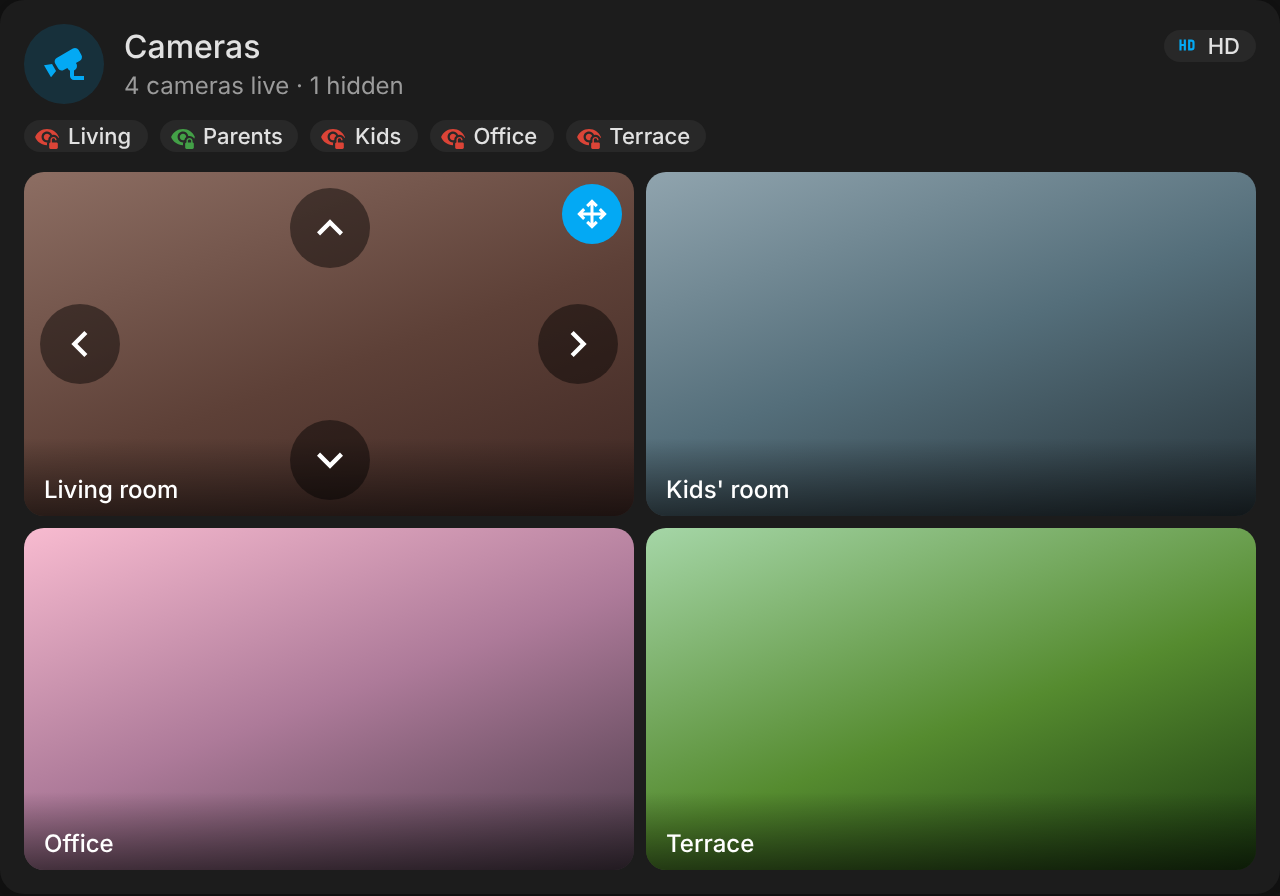
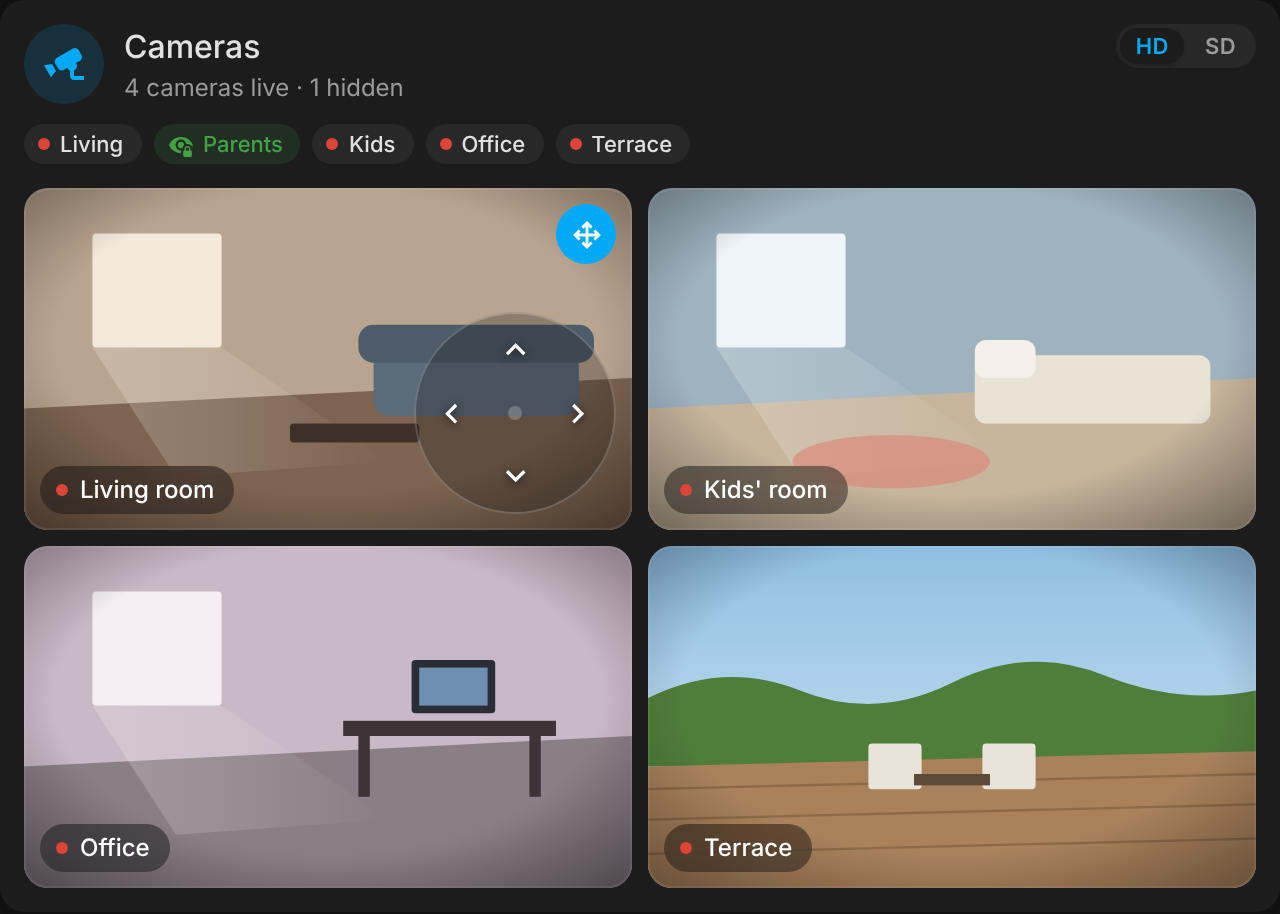
Visual pass (3.2.0) (#12)
Visual pass on the camera card, keeping the house style of the other
ha-* cards (40 px tinted header icon, tinted pills, theme font) and
putting the effort on the images.

## What changes
- **HD / SD switch** in the header: both options shown, the current one
raised; tapping an option selects it (tapping the current one does
nothing).
- **Badges**: neutral with a red live dot while the camera films,
green-tinted with a lock while hidden.
- **Images**: the name sits in a smoked-glass pill with a softly
blinking live dot (the card's one animation), replacing the dark
gradient over the picture; a single camera's pill says *Live* since its
name is the title. 12 px corners, hairline inner edge, 8 px gaps.
- **Buttons and PTZ arrows**: smoked glass with a thin outline, slight
press feedback.
- **Pan & tilt pad**: the arrows gather in a round pad around a centre
dot, in the bottom right corner, instead of the four edges of the image.
Lightly tinted and not blurred so the image stays visible through it
(arrows keep a drop shadow). Grid: sized to the tile with container
units, 84 px minimum on touch screens, the name keeps clear of it.
Fullscreen: 164 px, thumb reach on a phone, arrows close together on a
large screen; larger buttons and name.
- **Unavailable**: softer placeholder with a round icon; finer spinner.
- **Every camera hidden**: a dashed panel where the grid would be,
saying how to bring one back; the HD / SD switch hides.
[…]

diff --git a/src/home-camera-card.js b/src/home-camera-card.js
@@ -11,6 +11,9 @@ const HcI18n = {
     all_hidden: 'Toutes les caméras sont masquées',
     one_hidden: 'Caméra désactivée',
     no_cameras: 'Aucune caméra configurée',
+    hint_all: 'Touchez une pastille pour afficher une caméra',
+    live: 'En direct',
+    hint_one: 'Activez la caméra pour la voir ici',
     hd: 'HD',
     sd: 'SD',
     quality_hint: 'Basculer entre HD et SD',
@@ -62,6 +65,9 @@ const HcI18n = {
     all_hidden: 'All cameras are hidden',
     one_hidden: 'Camera disabled',
     no_cameras: 'No camera configured',
+    hint_all: 'Tap a badge to show a camera',
+    live: 'Live',
+    hint_one: 'Enable the camera to see it here',
     hd: 'HD',
     sd: 'SD',
     quality_hint: 'Switch between HD and SD',
@@ -411,10 +417,12 @@ class HomeCameraCard extends HTMLElement {
     }
   }
 
+  // A badge: an icon, or the red live dot when icon is null.
   _chip(cls, attrs, icon, label, title) {
+    const mark = icon ? `<ha-icon icon="${icon}"></ha-icon>` : '<span class="dot"></span>';
     return (
       `<span class="chip ${cls}" ${attrs} role="button" tabindex="0" title="${hcEsc(title)}">` +
-      `<ha-icon icon="${icon}"></ha-icon><span>${hcEsc(label)}</span></span>`
+      `${mark}<span>${hcEsc(label)}</span></span>`
     );
   }
 
@@ -435,13 +443,10 @@ class HomeCameraCard extends HTMLElement {
       }
     }
 
-    const quality = this._chip(
-      hd ? 'hd' : 'sd',
-      'data-quality="1"',
-      hd ? 'mdi:high-definition' : 'mdi:standard-definition',
-      this._t(hd ? 'hd' : 'sd'),
-      this._t('quality_hint'),
-    );
+    // HD / SD as a two-way switch: both options shown, the current one raised.
+    const opt = (q, on) =>
+      `<span class="opt${on ? ' on' : ''}" data-quality="${q}" role="radio" aria-checked="${on}" tabindex="0">${this._t(q)}</span>`;
+    const quality = `<span class="seg" role="radiogroup" title="${hcEsc(this._t('quality_hint'))}">${opt('hd', hd)}${opt('sd', !hd)}</span>`;
 
     // Lock icon by state; a spinning icon while the switch toggled from the card has not answered yet.
     const lock = (cam) => {
@@ -454,6 +459,8 @@ class HomeCameraCard extends HTMLElement {
         title: this._t(off ? 'privacy_on' : 'privacy_off', { c: cam.name }),
       };
     };
+    // Badges: a live camera shows the red dot, a hidden one its lock.
+    const badgeIcon = (l) => (l.cls === 'exposed' ? null : l.icon);
 
     let badges = '';
     if (c.show_badges) {
@@ -463,14 +470,15 @@ class HomeCameraCard extends HTMLElement {
           const l = lock(cam);
           const target = cam.privacy || cam.power;
           const label = single ? this._t(this._hidden(cam) ? 'enable' : 'disable') : cam.short;
-          return this._chip(l.cls, `data-toggle="${hcEsc(target)}"`, l.icon, label, l.title);
+          return this._chip(l.cls, `data-toggle="${hcEsc(target)}"`, badgeIcon(l), label, l.title);
         })
         .join('');
     }
 
     // A single camera with a toggle: the toggle sits on the right of the title, the quality under it
     // (only while the camera films: once it is hidden, the line says so instead).
-    let right = quality;
+    // No camera on screen: nothing to choose a quality for.
+    let right = visible.length ? quality : '';
     let side = '';
     let sub = summary ? `<div class="summary">${hcEsc(summary)}</div>` : '';
     if (single && badges) {
@@ -502,9 +510,17 @@ class HomeCameraCard extends HTMLElement {
     if (!this._tiles) this._tiles = new Map();
     if (!visible.length) {
       this._tiles.clear();
-      view.innerHTML = this._config.cameras?.length
-        ? ''
-        : `<div class="empty"><ha-icon icon="mdi:cctv-off"></ha-icon>${hcEsc(this._t('no_cameras'))}</div>`;
+      const n = this._config.cameras?.length || 0;
+      // Every camera hidden: what brings one back, where the grid would be.
+      if (n && this._config.show_badges) {
+        view.innerHTML =
+          `<div class="asleep"><ha-icon icon="mdi:eye-lock"></ha-icon>` +
+          `<span>${hcEsc(this._t(n === 1 ? 'hint_one' : 'hint_all'))}</span></div>`;
+      } else {
+        view.innerHTML = n
+          ? ''
+          : `<div class="empty"><ha-icon icon="mdi:cctv-off"></ha-icon>${hcEsc(this._t('no_cameras'))}</div>`;
+      }
       return;
     }
     hcLoadStream(visible[0].camera).catch(() => {});
@@ -542,7 +558,8 @@ class HomeCameraCard extends HTMLElement {
     tile.setAttribute('role', 'group');
     tile.innerHTML =
       '<div class="na"><ha-icon icon="mdi:cctv-off"></ha-icon><span></span></div><div class="spin"></div>' +
-      '<div class="label"></div><span class="open" data-action="open" role="button" tabindex="0"></span>' +
+      '<div class="label"><span class="dot"></span><span class="text"></span></div>' +
+      '<span class="open" data-action="open" role="button" tabindex="0"></span>' +
       '<div class="tools"></div><div class="pad"></div>';
     const stream = document.createElement('ha-camera-stream');
     stream.muted = true;
@@ -569,7 +586,9 @@ class HomeCameraCard extends HTMLElement {
     tile.dataset.cam = cam.key;
     tile.setAttribute('aria-label', cam.name);
     tile.querySelector('.open').title = cam.name;
-    tile.querySelector('.label').textContent = cam.name;
+    // A single camera already has its name as the card title: its image just says it is live.
+    const single = (this._config.cameras?.length || 0) === 1;
+    tile.querySelector('.label .text').textContent = single ? this._t('live') : cam.name;
     tile.querySelector('.na span').textContent = this._t('unavailable');
     if (!this._fullscreen(tile)) tile._stream.aspectRatio = hcRatio(this._config.aspect_ratio);
     this._renderTools(tile);
@@ -763,8 +782,10 @@ class HomeCameraCard extends HTMLElement {
   _styles() {
     return (
       '<style>' +
-      ':host { display: block; --hc-on: var(--success-color, #43a047); --hc-off: var(--error-color, #db4437); }' +
-      'ha-card { box-sizing: border-box; padding: 12px; display: flex; flex-direction: column; gap: 10px; overflow: hidden; }' +
+      // --hc-glass: the smoked glass of everything laid over the images (labels, buttons, arrows).
+      ':host { display: block; --hc-on: var(--success-color, #43a047); --hc-off: var(--error-color, #db4437);' +
+      ' --hc-live: var(--error-color, #db4437); --hc-glass: rgba(14, 16, 20, 0.46); --hc-glass-line: rgba(255, 255, 255, 0.14); }' +
+      'ha-card { box-sizing: border-box; padding: 12px; display: flex; flex-direction: column; gap: 12px; overflow: hidden; }' +
       '.header { display: flex; align-items: center; gap: 10px; }' +
       '.hicon { width: 40px; height: 40px; border-radius: 50%; flex-shrink: 0; display: flex; align-items: center; justify-content: center;' +
       ' --hc-c: var(--primary-color, #03a9f4); background: color-mix(in srgb, var(--hc-c) 15%, transparent); color: var(--hc-c); }' +
@@ -776,74 +797,113 @@ class HomeCameraCard extends HTMLElement {
       '.summary { font-size: 12px; line-height: 1.35; margin-top: 2px; color: var(--secondary-text-color); }' +
       '.chips { display: flex; flex-wrap: wrap; justify-content: flex-end; gap: 6px; }' +
       '.chips.badges, .chips.sub { justify-content: flex-start; }' +
-      '.chips.badges { margin-top: 8px; }' +
-      '.chips.sub { margin-top: 3px; }' +
+      '.chips.badges { margin-top: 10px; }' +
+      '.chips.sub { margin-top: 4px; }' +
+      // HD / SD switch: a track with the current option raised on it.
+      '.seg { display: inline-flex; padding: 2px; gap: 2px; border-radius: 12px; background: var(--secondary-background-color, rgba(128,128,128,0.12)); }' +
+      '.opt { font-size: 11px; font-weight: 600; letter-spacing: 0.02em; line-height: 18px; padding: 0 8px; border-radius: 10px; cursor: pointer;' +
+      ' color: var(--secondary-text-color); user-select: none; transition: background 0.15s, color 0.15s; }' +
+      '.opt.on { background: var(--card-background-color, #fff); color: var(--primary-color, #03a9f4); box-shadow: 0 1px 2px rgba(0,0,0,0.18); cursor: default; }' +
+      '.opt:focus-visible { outline: 2px solid var(--primary-color, #03a9f4); outline-offset: 1px; }' +
       '.toggle { width: 40px; height: 40px; border-radius: 50%; flex-shrink: 0; display: flex; align-items: center; justify-content: center; cursor: pointer;' +
       ' --hc-c: var(--hc-off); background: color-mix(in srgb, var(--hc-c) 15%, transparent); color: var(--hc-c); }' +
       '.toggle.private { --hc-c: var(--hc-on); }' +
       '.toggle.pending { --hc-c: var(--secondary-text-color); cursor: progress; }' +
       '.toggle ha-icon { --mdc-icon-size: 22px; }' +
-      '.chip { display: inline-flex; align-items: center; gap: 4px; font-size: 11px; font-weight: 500; padding: 1px 8px 1px 5px; border-radius: 12px; cursor: pointer;' +
-      ' background: var(--secondary-background-color, rgba(128,128,128,0.12)); color: var(--primary-text-color); white-space: nowrap; user-select: none; }' +
-      '.chip ha-icon { --mdc-icon-size: 13px; color: var(--secondary-text-color); }' +
-      '.chip.hd ha-icon { color: var(--primary-color, #03a9f4); }' +
-      '.chip.private ha-icon { color: var(--hc-on); }' +
-      '.chip.exposed ha-icon { color: var(--hc-off); }' +
-      '.chip.pending { cursor: progress; opacity: 0.75; }' +
+      // Badges: neutral with a red live dot while the camera films, green-tinted with a lock while hidden.
+      '.chip { display: inline-flex; align-items: center; gap: 5px; font-size: 11px; font-weight: 500; line-height: 18px; padding: 1px 9px 1px 7px; border-radius: 12px;' +
+      ' cursor: pointer; white-space: nowrap; user-select: none; background: var(--secondary-background-color, rgba(128,128,128,0.12)); color: var(--primary-text-color); }' +
+      '.chip ha-icon { --mdc-icon-size: 13px; }' +
+      '.chip.private { background: color-mix(in srgb, var(--hc-on) 15%, transparent); color: var(--hc-on); }' +
+      '.chip.pending { cursor: progress; color: var(--secondary-text-color); }' +
+      '.chip:focus-visible, .toggle:focus-visible { outline: 2px solid var(--primary-color, #03a9f4); outline-offset: 1px; }' +
+      '.dot { width: 6px; height: 6px; border-radius: 50%; flex-shrink: 0; background: var(--hc-live); }' +
       '.pending ha-icon { animation: hc-spin 0.9s linear infinite; }' +
       '@keyframes hc-spin { to { transform: rotate(360deg); } }' +
+      // The one moving thing: the live dot on the images breathes, like a recording light.
+      '@keyframes hc-live { 50% { opacity: 0.35; } }' +
       '.view:empty { display: none; }' +
-      '.grid { display: grid; gap: 6px; }' +
-      '.tile { position: relative; aspect-ratio: var(--hc-ratio, 1.7778); border-radius: 10px; overflow: hidden; background: #000; }' +
-      '.open { position: absolute; inset: 0; cursor: pointer; outline: none; border-radius: inherit; -webkit-tap-highlight-color: transparent; }' +
+      '.grid { display: grid; gap: 8px; }' +
+      '.tile { position: relative; aspect-ratio: var(--hc-ratio, 1.7778); border-radius: 12px; overflow: hidden; background: #0d0f12; container-type: size; }' +
+      // A hairline ring over the image, so dark scenes keep their edge on a dark card.
+      '.tile::after { content: ""; position: absolute; inset: 0; border-radius: inherit; box-shadow: inset 0 0 0 1px rgba(255,255,255,0.07); pointer-events: none; }' +
+      ':is(.tile:fullscreen, .tile.pseudo)::after { display: none; }' +
+      '.open { position: absolute; inset: 0; outline: none; border-radius: inherit; -webkit-tap-highlight-color: transparent; }' +
       '.open:focus-visible { box-shadow: inset 0 0 0 2px var(--primary-color, #03a9f4); }' +
       // A tap on the image puts it fullscreen, a second tap brings it back.
       '.open { cursor: zoom-in; }' +
       ':is(.tile:fullscreen, .tile.pseudo) .open { cursor: zoom-out; }' +
       '.tile ha-camera-stream { display: block; width: 100%; height: 100%; --video-max-height: 100%; }' +
-      ':is(.tile:fullscreen, .tile.pseudo) { display: flex; align-items: center; justify-content: center; border-radius: 0; }' +
+      ':is(.tile:fullscreen, .tile.pseudo) { display: flex; align-items: center; justify-content: center; border-radius: 0; background: #000; }' +
       '.tile.pseudo { position: fixed; inset: 0; z-index: 10000; aspect-ratio: auto; }' +
       ':is(.tile:fullscreen, .tile.pseudo) ha-camera-stream { height: auto; --video-max-height: 100vh; }' +
       '.tile.off ha-camera-stream { display: none; }' +
-      '.na { position: absolute; inset: 0; display: none; flex-direction: column; align-items: center; justify-content: center; gap: 6px; font-size: 12px;' +
-      ' color: rgba(255,255,255,0.7); background: #1a1a1a; }' +
+      '.na { position: absolute; inset: 0; display: none; flex-direction: column; align-items: center; justify-content: center; gap: 8px; font-size: 12px;' +
+      ' color: rgba(255,255,255,0.62); background: radial-gradient(circle at 50% 42%, #2a2e35, #121418 72%); }' +
+      '.na ha-icon { --mdc-icon-size: 20px; width: 40px; height: 40px; display: flex; align-items: center; justify-content: center; border-radius: 50%;' +
+      ' background: rgba(255,255,255,0.07); }' +
       '.tile.off .na { display: flex; }' +
-      '.spin { position: absolute; inset: 0; margin: auto; width: 26px; height: 26px; box-sizing: border-box; border-radius: 50%; display: none;' +
-      ' border: 3px solid rgba(255,255,255,0.25); border-top-color: #fff; animation: hc-spin 0.9s linear infinite; pointer-events: none; }' +
+      '.tile.off .label .dot { display: none; }' +
+      '.spin { position: absolute; inset: 0; margin: auto; width: 24px; height: 24px; box-sizing: border-box; border-radius: 50%; display: none;' +
+      ' border: 2px solid rgba(255,255,255,0.18); border-top-color: rgba(255,255,255,0.9); animation: hc-spin 0.8s linear infinite; pointer-events: none; }' +
       '.tile.loading:not(.off) .spin { display: block; }' +
-      '.label { position: absolute; left: 0; right: 0; bottom: 0; padding: 18px 10px 6px; font-size: 12px; font-weight: 500; color: #fff;' +
-      ' background: linear-gradient(transparent, rgba(0,0,0,0.55)); white-space: nowrap; overflow: hidden; text-overflow: ellipsis; pointer-events: none; }' +
-      ':is(.tile:fullscreen, .tile.pseudo) .label { font-size: 16px; padding: 32px 16px max(12px, env(safe-area-inset-bottom)); }' +
-      '.tools { position: absolute; top: 6px; right: 6px; display: flex; gap: 6px; transition: opacity 0.15s; }' +
-      ':is(.tile:fullscreen, .tile.pseudo) .tools { top: max(12px, env(safe-area-inset-top)); right: max(12px, env(safe-area-inset-right)); }' +
-      '.btn { width: 30px; height: 30px; border-radius: 50%; display: flex; align-items: center; justify-content: center; cursor: pointer;' +
-      ' color: #fff; background: rgba(0,0,0,0.45); -webkit-tap-highlight-color: transparent; user-select: none; }' +
-      '.btn:hover { background: rgba(0,0,0,0.65); }' +
-      '.btn:focus-visible { outline: 2px solid var(--primary-color, #03a9f4); }' +
-      '.btn ha-icon { --mdc-icon-size: 18px; }' +
-      '.tile.ptz-open .btn.ptz, .btn.sound.on, .move:active { background: var(--primary-color, #03a9f4); }' +
+      // Name on the image: a glass pill with the live dot, not a dark gradient over the bottom of the picture.
+      '.label { position: absolute; left: 8px; bottom: 8px; max-width: calc(100% - 16px); box-sizing: border-box; display: inline-flex; align-items: center; gap: 6px;' +
+      ' padding: 3px 10px 3px 8px; border-radius: 999px; font-size: 12px; font-weight: 500; line-height: 18px; color: #fff; pointer-events: none;' +
+      ' background: var(--hc-glass); -webkit-backdrop-filter: blur(10px) saturate(1.3); backdrop-filter: blur(10px) saturate(1.3); }' +
+      '.label .dot { animation: hc-live 2.4s ease-in-out infinite; }' +
+      '.label .text { white-space: nowrap; overflow: hidden; text-overflow: ellipsis; }' +
+      ':is(.tile:fullscreen, .tile.pseudo) .label { font-size: 15px; padding: 5px 14px 5px 12px; left: max(16px, env(safe-area-inset-left));' +
+      ' bottom: max(16px, env(safe-area-inset-bottom)); }' +
+      // Above the pan & tilt pad: on narrow tiles the pad reaches the corner of the pan & tilt button.
+      '.tools { position: absolute; top: 8px; right: 8px; z-index: 1; display: flex; gap: 6px; transition: opacity 0.15s; }' +
+      ':is(.tile:fullscreen, .tile.pseudo) .tools { top: max(16px, env(safe-area-inset-top)); right: max(16px, env(safe-area-inset-right)); }' +
+      '.btn { width: 30px; height: 30px; box-sizing: border-box; border-radius: 50%; display: flex; align-items: center; justify-content: center; cursor: pointer;' +
+      ' color: #fff; background: var(--hc-glass); border: 1px solid var(--hc-glass-line); -webkit-backdrop-filter: blur(10px) saturate(1.3); backdrop-filter: blur(10px) saturate(1.3);' +
+      ' -webkit-tap-highlight-color: transparent; user-select: none; transition: background 0.15s, transform 0.1s; }' +
+      '.btn:hover { background: rgba(14, 16, 20, 0.66); }' +
+      '.btn:active { transform: scale(0.94); }' +
+      '.btn:focus-visible { outline: 2px solid var(--primary-color, #03a9f4); outline-offset: 1px; }' +
+      '.btn ha-icon { --mdc-icon-size: 17px; }' +
+      '.tile.ptz-open .btn.ptz, .btn.sound.on, .move:active { background: var(--primary-color, #03a9f4); border-color: transparent; }' +
       // Narrow tiles: the up arrow would run into the other buttons.
       '.tile.ptz-open .tools .btn:not(.ptz) { display: none; }' +
-      '.pad { display: none; }' +
+      // Pan & tilt: a round pad, its four arrows around a centre dot, in the bottom right corner (under the
+      // thumb), sized to the tile (container units). Lightly tinted and not blurred: the image stays visible
+      // through it, the arrows keep a shadow to stay readable on any scene.
+      '.tile { --pad: min(120px, 58cqh); }' +
+      '.pad { display: none; position: absolute; width: var(--pad); height: var(--pad); border-radius: 50%;' +
+      ' right: 8px; bottom: 8px; background: rgba(14, 16, 20, 0.26); border: 1px solid rgba(255, 255, 255, 0.2); }' +
       '.tile.ptz-open .pad, :is(.tile:fullscreen, .tile.pseudo) .pad { display: block; }' +
-      '.move { --s: 40px; position: absolute; width: var(--s); height: var(--s); touch-action: none; }' +
-      '.move ha-icon { --mdc-icon-size: 26px; }' +
-      '.move.left { left: 8px; top: calc(50% - var(--s) / 2); }' +
-      '.move.right { right: 8px; top: calc(50% - var(--s) / 2); }' +
-      '.move.up { top: 8px; left: calc(50% - var(--s) / 2); }' +
-      '.move.down { bottom: 8px; left: calc(50% - var(--s) / 2); }' +
+      '.pad::after { content: ""; position: absolute; inset: 0; margin: auto; width: calc(var(--pad) * 0.07); height: calc(var(--pad) * 0.07); border-radius: 50%;' +
+      ' background: rgba(255,255,255,0.22); pointer-events: none; }' +
+      '.move { --s: calc(var(--pad) * 0.32); position: absolute; width: var(--s); height: var(--s); touch-action: none;' +
+      ' background: transparent; border-color: transparent; -webkit-backdrop-filter: none; backdrop-filter: none; }' +
+      '.move:hover { background: rgba(255,255,255,0.12); }' +
+      '.move:active { background: var(--primary-color, #03a9f4); }' +
+      '.move ha-icon { --mdc-icon-size: calc(var(--s) * 0.62); filter: drop-shadow(0 1px 2px rgba(0,0,0,0.7)); }' +
+      '.move.left { left: 2px; top: calc(50% - var(--s) / 2); }' +
+      '.move.right { right: 2px; top: calc(50% - var(--s) / 2); }' +
+      '.move.up { top: 2px; left: calc(50% - var(--s) / 2); }' +
+      '.move.down { bottom: 2px; left: calc(50% - var(--s) / 2); }' +
       '.move.dis { opacity: 0.35; cursor: default; }' +
-      // Fullscreen: larger arrows, further from the edges.
-      ':is(.tile:fullscreen, .tile.pseudo) .move { --s: 56px; }' +
-      ':is(.tile:fullscreen, .tile.pseudo) .move ha-icon { --mdc-icon-size: 34px; }' +
-      ':is(.tile:fullscreen, .tile.pseudo) .move.left { left: max(16px, env(safe-area-inset-left)); }' +
-      ':is(.tile:fullscreen, .tile.pseudo) .move.right { right: max(16px, env(safe-area-inset-right)); }' +
-      ':is(.tile:fullscreen, .tile.pseudo) .move.up { top: max(16px, env(safe-area-inset-top)); }' +
-      ':is(.tile:fullscreen, .tile.pseudo) .move.down { bottom: max(48px, env(safe-area-inset-bottom)); }' +
+      // The name keeps clear of the pad.
+      '.tile.ptz-open .label { max-width: calc(100% - var(--pad) - 24px); }' +
+      ':is(.tile:fullscreen, .tile.pseudo) { --pad: 164px; }' +
+      ':is(.tile:fullscreen, .tile.pseudo) .pad { right: max(24px, env(safe-area-inset-right)); bottom: max(24px, env(safe-area-inset-bottom)); }' +
+      ':is(.tile:fullscreen, .tile.pseudo) .btn:not(.move) { width: 40px; height: 40px; }' +
+      ':is(.tile:fullscreen, .tile.pseudo) .btn:not(.move) ha-icon { --mdc-icon-size: 20px; }' +
       // Mouse: the buttons show on hover, so the image stays clear. Touch: always shown, and larger.
       '@media (hover: hover) and (pointer: fine) {' +
       ' .tile:not(:hover):not(:focus-within):not(.ptz-open) .tools { opacity: 0; } }' +
-      '@media (pointer: coarse) { .btn { width: 36px; height: 36px; } .btn ha-icon { --mdc-icon-size: 20px; } .move { --s: 46px; } }' +
+      // Touch: buttons larger, and a pad never too small for a finger, even on a narrow tile.
+      '@media (pointer: coarse) { .btn:not(.move) { width: 36px; height: 36px; } .btn:not(.move) ha-icon { --mdc-icon-size: 20px; }' +
+      ' .tile { --pad: min(120px, max(84px, 58cqh)); } }' +
+      '@media (prefers-reduced-motion: reduce) { .label .dot, .spin, .pending ha-icon { animation: none; } }' +
+      // Every camera hidden: a quiet panel where the grid would be, saying how to bring one back.
+      '.asleep { display: flex; align-items: center; justify-content: center; gap: 8px; min-height: 64px; padding: 12px; box-sizing: border-box;' +
+      ' border-radius: 12px; border: 1px dashed var(--divider-color, rgba(128,128,128,0.3)); font-size: 12px; color: var(--secondary-text-color); text-align: center; }' +
+      '.asleep ha-icon { --mdc-icon-size: 18px; color: var(--hc-on); }' +
       '.empty { display: flex; align-items: center; gap: 10px; color: var(--secondary-text-color); }' +
       '</style>'
     );
@@ -851,8 +911,9 @@ class HomeCameraCard extends HTMLElement {
 
   _onClick(ev) {
     const path = ev.composedPath();
-    if (path.some((n) => n.dataset?.quality)) {
-      this._toggleQuality();
+    const q = path.find((n) => n.dataset?.quality)?.dataset.quality;
+    if (q) {
+      if ((q === 'hd') !== this._hd()) this._toggleQuality();
       return;
     }
     const toggle = path.find((n) => n.dataset?.toggle);

diff --git a/README.md b/README.md
@@ -15,18 +15,23 @@ List the cameras, the card finds their privacy switch, SD stream and PTZ buttons
 | Light | Dark, pan & tilt |
 |---|---|
 | ![Camera card](https://raw.githubusercontent.com/juju35/ha-home-camera-card/main/screenshots/card.png) | ![Camera card with the pan and tilt arrows, dark theme](https://raw.githubusercontent.com/juju35/ha-home-camera-card/main/screenshots/card-dark.png) |
+| **Single camera** | **Every camera hidden** |
+| ![Camera card with a single camera](https://raw.githubusercontent.com/juju35/ha-home-camera-card/main/screenshots/card-single.png) | ![Camera card with every camera hidden, dark theme](https://raw.githubusercontent.com/juju35/ha-home-camera-card/main/screenshots/card-hidden.png) |
+
+![Fullscreen camera with the round pan and tilt pad](https://raw.githubusercontent.com/juju35/ha-home-camera-card/main/screenshots/card-fullscreen.png)
 
 ## Features
 
-- Header with the number of cameras live and hidden, and an **HD / SD** badge
-- One badge per camera: green lock when the camera is hidden, red when it films; tap to toggle its privacy switch (or its smart plug)
+- Header with the number of cameras live and hidden, and an **HD / SD** switch
+- One badge per camera: a red live dot while it films, a green lock while it is hidden; tap to toggle its privacy switch (or its smart plug)
+- Each image carries its name with a live dot; when every camera is hidden, a panel says how to bring one back
 - A single camera: its name is the title, a round *Disable* / *Enable* icon button sits on the right and the HD / SD badge under the title
 - Hidden cameras are removed from the grid: a camera is hidden when its **privacy switch is on** or its **power switch is off**
 - **HD / SD** switch: from an `input_select` shared by every dashboard, or from the card itself (remembered by the browser)
 - Live grid on Home Assistant's own player: WebRTC through go2rtc when available, else HLS or MJPEG — no other card to install
-- **Tap a camera to put it fullscreen**, with its pan & tilt arrows always shown; tap again or press Escape to come back (on iPhone, the card covers the screen itself)
+- **Tap a camera to put it fullscreen**, with a round pan & tilt pad at the bottom right; tap again or press Escape to come back (on iPhone, the card covers the screen itself)
 - *Details* button on every tile for Home Assistant's camera dialog; **sound** button on streams that carry sound, for one camera at a time (the grid starts muted)
-- **PTZ**: a button on the tile shows four arrows over the image; hold an arrow to keep moving, or use the arrow keys; arrows whose button is unavailable are greyed out
+- **PTZ**: a button on the tile shows a round pad of four arrows in the corner of the image, light enough to see through; hold an arrow to keep moving, or use the arrow keys; arrows whose button is unavailable are greyed out
 - Spinner until each camera's first frame; privacy badges spin until their switch answers
 - Mouse: tile buttons show on hover; touch: always shown, with larger targets
 - Hiding or showing a camera, or switching HD / SD, never reloads the streams of the other cameras
@@ -145,6 +150,10 @@ cameras:
 | Light | Dark, pan & tilt |
 |---|---|
 | ![card](screenshots/card.png) | ![card dark](screenshots/card-dark.png) |
+| **Single camera** | **Every camera hidden** |
+| ![card single](screenshots/card-single.png) | ![card hidden](screenshots/card-hidden.png) |
+
+![card fullscreen](screenshots/card-fullscreen.png)
 
 ## How it works
 

diff --git a/CHANGELOG.md b/CHANGELOG.md
@@ -1,5 +1,20 @@
 # Changelog
 
+## 3.2.0
+
+Visual pass: the same card, nicer to look at.
+
+### Changes
+- **HD / SD switch**: both options shown in the header, the current one raised; a tap picks the one you tap.
+- **Badges**: a red live dot while the camera films, green with a lock while it is hidden (was: an eye icon on every badge).
+- **Images**: each name sits in a glass pill with a softly blinking live dot, instead of a dark band over the bottom of the picture; a single camera's pill just says *Live*, its name being the title. Rounder corners, a hairline edge so dark scenes stay framed on a dark card, wider gaps.
+- **Buttons and arrows** on the images are smoked glass with a thin outline, and give under the finger.
+- **Pan & tilt pad**: the four arrows gather in a round pad around a centre dot, in the bottom right corner, instead of sitting at the four edges of the image. Lightly tinted and not blurred, so the image stays visible through it. Sized to the tile in the grid (never under 84 px on touch screens), larger in fullscreen, where it sits within thumb reach on a phone and keeps the arrows close together on a large screen. Larger buttons and name in fullscreen.
+- **Unavailable** cameras show a softer placeholder; the loading spinner is finer.
+- **Every camera hidden**: a panel where the grid would be says how to bring one back; the HD / SD switch hides.
+- Blinking and spinning stop when the system asks for reduced motion.
+- Screenshots: mock rooms instead of flat colours, plus single-camera, every-camera-hidden and fullscreen views.
+
 ## 3.1.0
 
 Ergonomics pass: quicker to read, quicker to act on.
